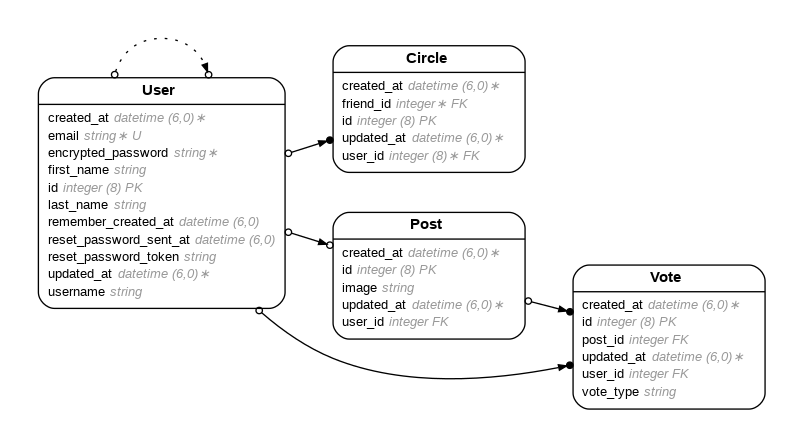
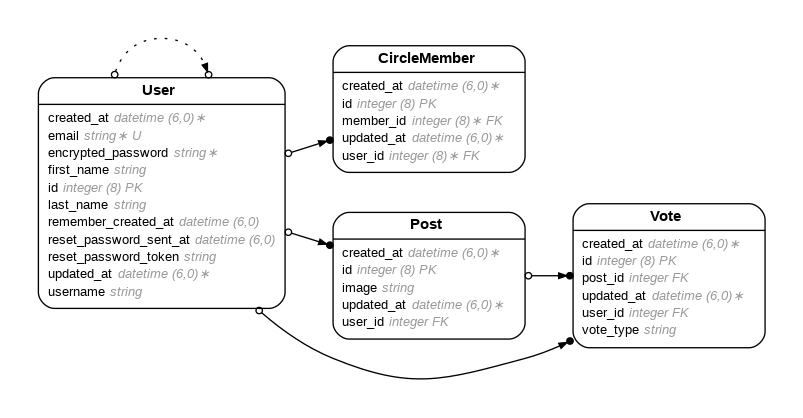
permenant caption added

diff --git a/app/models/user.rb b/app/models/user.rb
@@ -1,3 +1,25 @@
+# == Schema Information
+#
+# Table name: users
+#
+#  id                     :bigint           not null, primary key
+#  email                  :string           default(""), not null
+#  encrypted_password     :string           default(""), not null
+#  first_name             :string
+#  last_name              :string
+#  remember_created_at    :datetime
+#  reset_password_sent_at :datetime
+#  reset_password_token   :string
+#  username               :string
+#  created_at             :datetime         not null
+#  updated_at             :datetime         not null
+#
+# Indexes
+#
+#  index_users_on_email                 (email) UNIQUE
+#  index_users_on_reset_password_token  (reset_password_token) UNIQUE
+#  index_users_on_username              (username) UNIQUE
+#
 class User < ApplicationRecord
   
   devise :database_authenticatable, :registerable,

diff --git a/app/models/circle_member.rb b/app/models/circle_member.rb
@@ -1,3 +1,24 @@
+# == Schema Information
+#
+# Table name: circle_members
+#
+#  id         :bigint           not null, primary key
+#  created_at :datetime         not null
+#  updated_at :datetime         not null
+#  member_id  :bigint           not null
+#  user_id    :bigint           not null
+#
+# Indexes
+#
+#  index_circle_members_on_member_id              (member_id)
+#  index_circle_members_on_user_id                (user_id)
+#  index_circle_members_on_user_id_and_member_id  (user_id,member_id) UNIQUE
+#
+# Foreign Keys
+#
+#  fk_rails_...  (member_id => users.id) ON DELETE => cascade
+#  fk_rails_...  (user_id => users.id) ON DELETE => cascade
+#
 class CircleMember < ApplicationRecord
   belongs_to :user
   belongs_to :member, class_name: "User"

diff --git a/app/models/post.rb b/app/models/post.rb
@@ -1,3 +1,13 @@
+# == Schema Information
+#
+# Table name: posts
+#
+#  id         :bigint           not null, primary key
+#  image      :string
+#  created_at :datetime         not null
+#  updated_at :datetime         not null
+#  user_id    :integer
+#
 class Post < ApplicationRecord
   belongs_to :user
 
